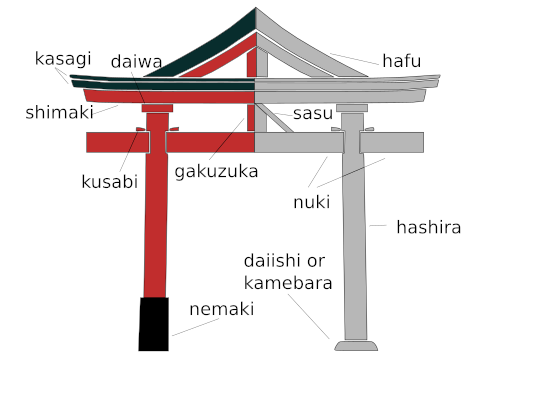
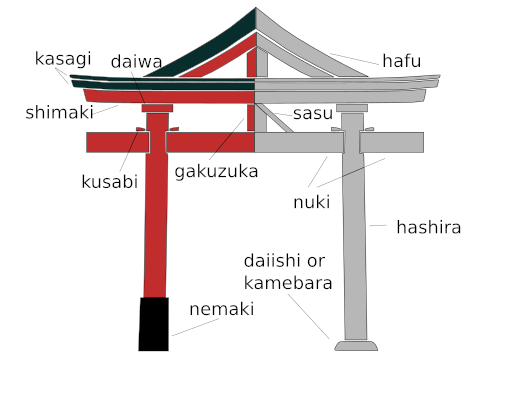
fix image styling

Changed region(s): [[0.0294, 0.0, 0.91, 0.8889], [0.7632, 0.3259, 0.8513, 0.3852], [0.1468, 0.3259, 0.1761, 0.3852]]

diff --git a/torii-client/src/views/project/ImageEditor.vue b/torii-client/src/views/project/ImageEditor.vue
@@ -50,11 +50,8 @@ onUnmounted(revokeImageUrl);
 
 <style lang="scss" scoped>
 .file-editor-image {
-    display: flex;
     justify-content: center;
     align-items: center;
-    flex-direction: row;
-    width: 100%;
     padding: 16px;
 
     .file-image-preview {

diff --git a/torii-client/src/views/project/ProjectView.vue b/torii-client/src/views/project/ProjectView.vue
@@ -125,7 +125,7 @@ if (!projectPath) {
     .view-project-content {
         display: flex;
         flex-direction: column;
-        align-items: flex-start;
+        align-items: center;
         justify-content: flex-start;
         flex: 1;
         text-align: left;

diff --git a/torii-example/README.md b/torii-example/README.md
@@ -11,4 +11,3 @@ The following is a list of all features currently possible in Torii. If you have
 - View Image Component (`.png`)
 - ...
 
- 